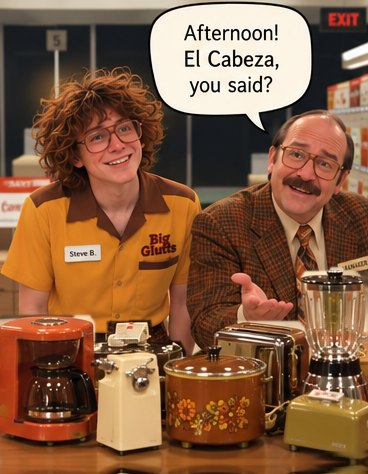
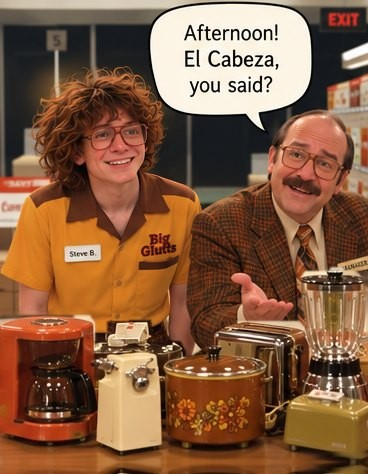
Clerk scene: Steve B. looks where the manager does (head turned, eyes left)
Claude-Session: https://claude.ai/code/session_01MBPPNbw7PWwvpcuEmuKfZK

Changed region(s): [[0.1196, 0.1477, 0.4484, 0.3544]]

diff --git a/tools/clerk_gaze_warp.py b/tools/clerk_gaze_warp.py
@@ -1,0 +1,36 @@
+import numpy as np
+from PIL import Image
+from scipy.ndimage import map_coordinates
+import sys
+SRC='/home/user/el-cabeza-project/assets/tienda/clerk/manager-1.jpg'
+im=np.asarray(Image.open(SRC).convert('RGB')).astype(np.float32)
+H,W,_=im.shape
+yy,xx=np.mgrid[0:H,0:W].astype(np.float32)
+theta=float(sys.argv[1]) if len(sys.argv)>1 else 7.0   # degrees, + = clockwise on screen
+yaw=float(sys.argv[2]) if len(sys.argv)>2 else 2.5     # px the face moves left
+eye=float(sys.argv[3]) if len(sys.argv)>3 else 1.4      # px the irises move
+# 1. the head turned about the neck: a soft mask over hair and face
+cx,cy=112.0,176.0
+r=np.hypot((xx-112)/62,(yy-132)/58)
+m=np.clip(1.25-r,0,1); m=m*m*(3-2*m)
+m*=np.clip((180-yy)/18,0,1)          # nothing below the chin/collar
+m*=np.clip((150-xx)/10,0,1)**0 * np.clip((158-xx)/14,0,1)  # stop short of the bubble / manager
+t=np.deg2rad(theta)
+dx,dy=xx-cx,yy-cy
+# backward map: the source of an output pixel is the pixel rotated back
+sx=cx+np.cos(-t)*dx-np.sin(-t)*dy
+sy=cy+np.sin(-t)*dx+np.cos(-t)*dy
+X=xx+m*(sx-xx); Y=yy+m*(sy-yy)
+# 2. a slight turn: the face's middle drawn left (source taken from the right)
+f=np.exp(-(((xx-113)/17)**2+((yy-143)/20)**2))
+X=X+yaw*f
+# 3. the irises left and a little down
+for (ex,ey) in [(97,136),(123,130)]:
+    g=np.exp(-(((xx-ex)/2.6)**2+((yy-ey)/2.2)**2))
+    X=X+eye*g; Y=Y-0.45*eye*g
+out=np.stack([map_coordinates(im[...,c],[Y,X],order=3,mode='nearest') for c in range(3)],-1)
+o=Image.fromarray(np.clip(out,0,255).astype(np.uint8))
+o.save('m1-gaze.png')
+a=Image.open(SRC).crop((40,60,200,200)).resize((480,420),Image.LANCZOS)
+b=o.crop((40,60,200,200)).resize((480,420),Image.LANCZOS)
+c=Image.new('RGB',(960,420)); c.paste(a,(0,0)); c.paste(b,(480,0)); c.save('m1-gaze-pair.png')

diff --git a/PROJECT_MEMORY.md b/PROJECT_MEMORY.md
@@ -4166,3 +4166,9 @@ phone menu until "Start the story over" (which clears it).
   bottom half spun the wrong way): a touch beginning above the board's
   middle on screen (its far half) turns it one way, below the other, as
   the chassis's grabFollow fallback.
+- Clerk scene, manager-1 ("Afternoon! El Cabeza, you said?"): Steve B.
+  now looks where the manager does, out to the front-left (user). The
+  photo itself, warped (tools/clerk_gaze_warp.py, args 11 4 2.0): his head
+  turned 11 degrees clockwise about the neck under a soft mask (stopping
+  short of the speech bubble and the manager), the face's middle drawn 4 px
+  left (a little turn), the irises 2 px left and a touch down.
